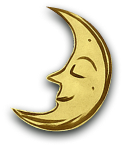
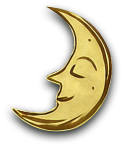
Update .gitignore to include macOS system files; modify HoroscopeSection component to improve layout and add decorative elements for enhanced visual appeal.

diff --git a/taro-app/src/components/HoroscopeSection.tsx b/taro-app/src/components/HoroscopeSection.tsx
@@ -343,9 +343,10 @@ export const HoroscopeSection = () => {
     flexDirection: 'column',
     fontSize: '16px',
     color: 'white',
-    justifyContent: 'center',
+    justifyContent: 'flex-start',
     padding: '16px 24px',
-    minWidth: 0
+    minWidth: 0,
+    minHeight: '300px'
   };
 
 
@@ -420,7 +421,7 @@ export const HoroscopeSection = () => {
   const decorativeDividerStyle: React.CSSProperties = {
     width: '100%',
     marginTop: '8px',
-    opacity: 0.3,
+    opacity: 1,
     height: 'auto'
   };
 
@@ -953,24 +954,39 @@ export const HoroscopeSection = () => {
                     </div>
                   </div>
                 </div>
+
+                {/* Spacer для выравнивания декоративных элементов к низу */}
+                <div style={{ flex: 1 }}></div>
+
+                {/* Decorative Elements - прижаты к низу правой части */}
+                <div style={{
+                  marginTop: 'auto',
+                  paddingTop: '16px'
+                }}>
+                  <img
+                    src="https://api.builder.io/api/v1/image/assets/a61b8aff1f9a4d4b8c540558ab06b276/bf65c29bb76ac59b655e89bb29946e4f00f49a6d?placeholderIfAbsent=true"
+                    alt="Decorative divider"
+                    style={{
+                      ...decorativeDividerStyle,
+                      width: '100%',
+                      opacity: 1
+                    }}
+                  />
+                  
+                  <div style={{
+                    ...decorativeElementContainerStyle,
+                    marginTop: '6px'
+                  }}>
+                    <img
+                      src="https://api.builder.io/api/v1/image/assets/a61b8aff1f9a4d4b8c540558ab06b276/154f96a15bcd974fd38495f6f7aeec22f8b9613a?placeholderIfAbsent=true"
+                      alt="Decorative element"
+                      style={decorativeElementStyle}
+                    />
+                  </div>
+                </div>
               </>
             )}
           </div>
-        </div>
-        
-        {/* Decorative Elements */}
-        <img
-          src="https://api.builder.io/api/v1/image/assets/a61b8aff1f9a4d4b8c540558ab06b276/bf65c29bb76ac59b655e89bb29946e4f00f49a6d?placeholderIfAbsent=true"
-          alt="Decorative divider"
-          style={decorativeDividerStyle}
-        />
-        
-        <div style={decorativeElementContainerStyle}>
-          <img
-            src="https://api.builder.io/api/v1/image/assets/a61b8aff1f9a4d4b8c540558ab06b276/154f96a15bcd974fd38495f6f7aeec22f8b9613a?placeholderIfAbsent=true"
-            alt="Decorative element"
-            style={decorativeElementStyle}
-          />
         </div>
       </div>
     </section>
